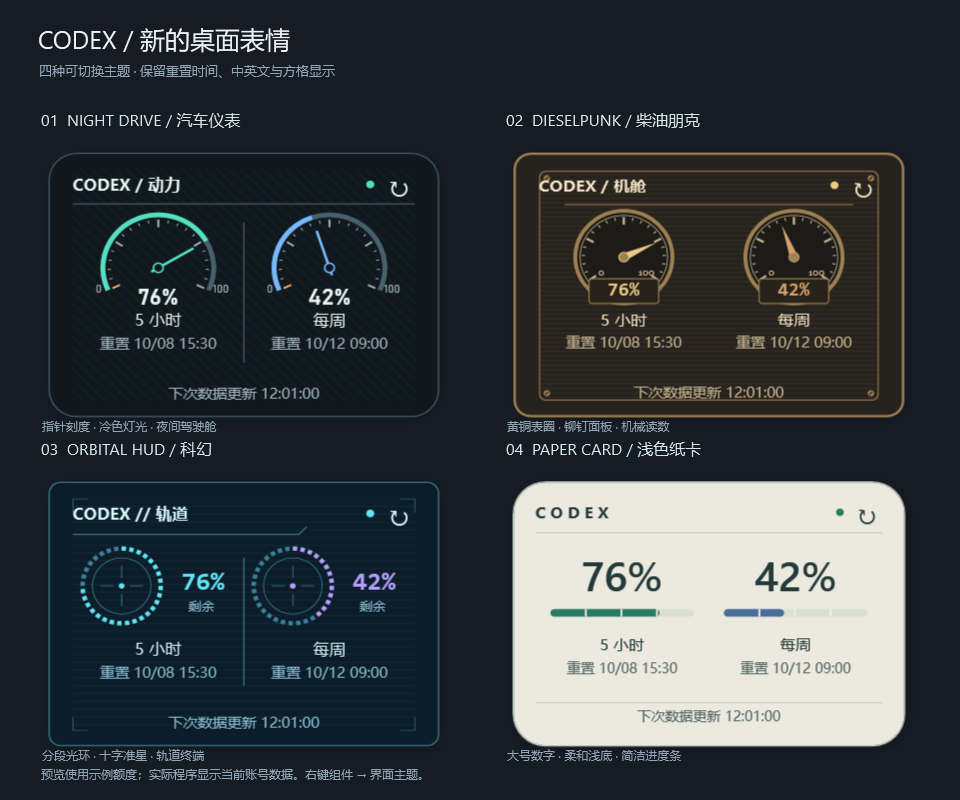
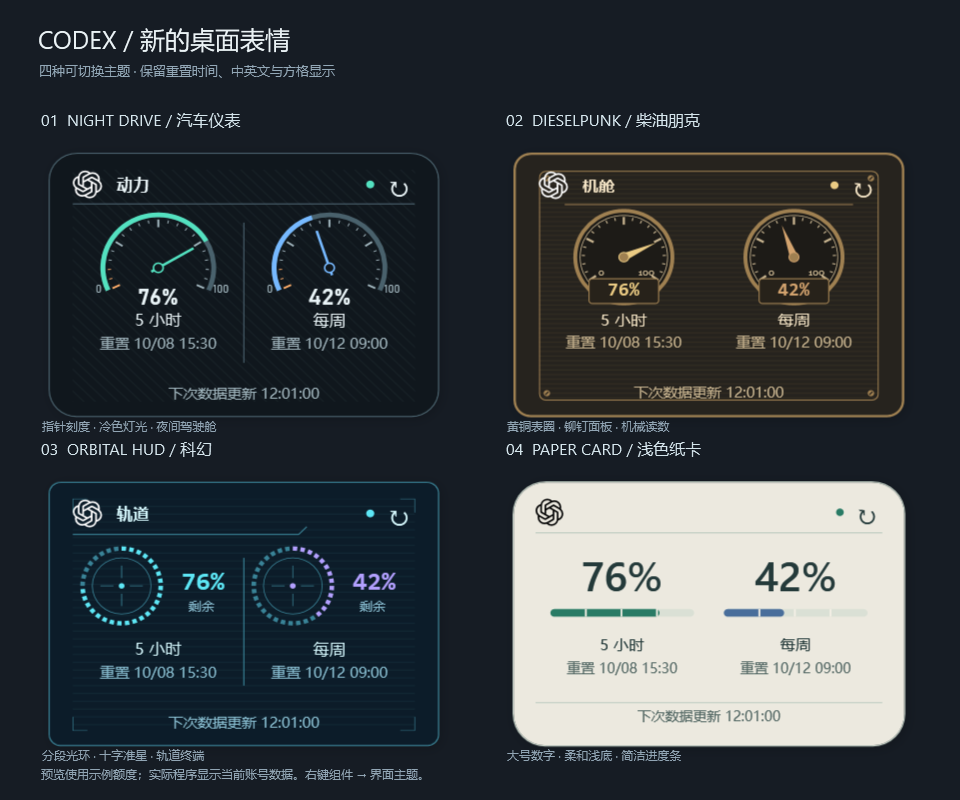
Replace CODEX header text with embedded monochrome ChatGPT mark

diff --git a/QuotaWidget.cs b/QuotaWidget.cs
@@ -164,6 +164,10 @@ sealed class Widget : Window
     readonly Border card = new Border();
     readonly QuotaDecoration decoration = new QuotaDecoration { IsHitTestVisible = false };
     readonly TextBlock title = new TextBlock();
+    readonly System.Windows.Shapes.Path serviceLogo = new System.Windows.Shapes.Path {
+        Data = ChatGptMark.Shape, Width = 18, Height = 18, Stretch = Stretch.Uniform,
+        VerticalAlignment = VerticalAlignment.Center, HorizontalAlignment = HorizontalAlignment.Left
+    };
     readonly Button refresh = new Button();
     readonly DispatcherTimer timer = new DispatcherTimer();
     readonly HardwareSampler hardware = new HardwareSampler();
@@ -210,7 +214,8 @@ sealed class Widget : Window
         body.RowDefinitions.Add(new RowDefinition { Height = new GridLength(17) });
         body.RowDefinitions.Add(performanceRow);
         var header = new Grid(); body.Children.Add(header);
-        title.Text = "C O D E X"; title.FontSize = 10; title.FontWeight = FontWeights.SemiBold; title.VerticalAlignment = VerticalAlignment.Center; header.Children.Add(title);
+        serviceLogo.ToolTip = "ChatGPT"; System.Windows.Automation.AutomationProperties.SetName(serviceLogo, "ChatGPT logo"); header.Children.Add(serviceLogo);
+        title.Margin = new Thickness(27, 0, 0, 0); title.FontSize = 10; title.FontWeight = FontWeights.SemiBold; title.VerticalAlignment = VerticalAlignment.Center; header.Children.Add(title);
         dot.Width = dot.Height = 5; dot.CornerRadius = new CornerRadius(3); dot.HorizontalAlignment = HorizontalAlignment.Right; dot.VerticalAlignment = VerticalAlignment.Center; dot.Margin = new Thickness(0, 0, 25, 0); dot.Background = new SolidColorBrush(amber); header.Children.Add(dot);
         refresh.Content = "↻"; refresh.FontSize = 17; refresh.Width = 20; refresh.Height = 20; refresh.HorizontalAlignment = HorizontalAlignment.Right;
         refresh.Padding = new Thickness(0); refresh.Foreground = Brushes.White; refresh.Background = Brushes.Transparent; refresh.BorderThickness = new Thickness(0); refresh.Cursor = Cursors.Hand;
@@ -367,7 +372,8 @@ sealed class Widget : Window
         card.CornerRadius = new CornerRadius(theme.Radius); card.BorderBrush = theme.Brush(theme.Code == "glass" ? Color.FromArgb(55, 255, 255, 255) : theme.Edge);
         card.BorderThickness = new Thickness(theme.Code == "diesel" ? 1.6 : 0.8);
         decoration.Theme = theme; decoration.InvalidateVisual();
-        title.Text = theme.Code == "drive" ? "CODEX / " + L("动力", "DRIVE") : theme.Code == "diesel" ? "CODEX / " + L("机舱", "ENGINE") : theme.Code == "hud" ? "CODEX // " + L("轨道", "ORBIT") : "C O D E X";
+        title.Text = theme.Code == "drive" ? L("动力", "DRIVE") : theme.Code == "diesel" ? L("机舱", "ENGINE") : theme.Code == "hud" ? L("轨道", "ORBIT") : "";
+        serviceLogo.Fill = theme.Code == "paper" ? Brushes.Black : Brushes.White;
         title.Foreground = theme.Brush(theme.Foreground); refresh.Foreground = theme.Brush(theme.Foreground);
         footer.Foreground = theme.Brush(theme.Secondary);
         performancePanel.BorderBrush = theme.Brush(theme.Edge); performanceTitle.Foreground = performanceNote.Foreground = theme.Brush(theme.Secondary);

diff --git a/QuotaThemes.cs b/QuotaThemes.cs
@@ -4,6 +4,23 @@ using System.Windows;
 using System.Windows.Automation.Peers;
 using System.Windows.Media;
 
+static class ChatGptMark
+{
+    // Unmodified path from OpenAI's official monochrome Blossom SVG. Embedded
+    // once and shared by all windows; no image decoder or network request.
+    public static readonly Geometry Shape = Load();
+    static Geometry Load()
+    {
+        var settings = new System.Xml.XmlReaderSettings { DtdProcessing = System.Xml.DtdProcessing.Prohibit, XmlResolver = null };
+        using (var stream = typeof(ChatGptMark).Assembly.GetManifestResourceStream("OpenAI.Blossom.svg"))
+        using (var reader = System.Xml.XmlReader.Create(stream, settings)) {
+            var document = new System.Xml.XmlDocument { XmlResolver = null }; document.Load(reader);
+            var geometry = Geometry.Parse("F1 " + document.GetElementsByTagName("path")[0].Attributes["d"].Value);
+            geometry.Freeze(); return geometry;
+        }
+    }
+}
+
 // All decoration is vector-drawn; no external images or animation are needed.
 sealed class QuotaTheme
 {

diff --git a/README.md b/README.md
@@ -19,7 +19,7 @@
 
 ## 下载和运行
 
-从本仓库 [Releases](../../releases/latest) 下载 `CodexQuota-v1.3.1-windows.zip`，完整解压到有写入权限的固定目录。
+从本仓库 [Releases](../../releases/latest) 下载 `CodexQuota-v1.3.2-windows.zip`，完整解压到有写入权限的固定目录。
 
 运行环境：Windows 10/11、.NET Framework 4.7.2 或更新版本，以及已安装并使用 ChatGPT 账号登录的 Codex CLI。程序优先查找当前用户 npm 全局安装的 CLI，其次查找 PATH 中的 `codex.exe`。
 
@@ -106,3 +106,5 @@ CPU 温度优先使用联想新版 `LENOVO_OTHER_METHOD.GetFeatureValue` 的“C
 卸载前在右键菜单关闭自启，然后退出程序并删除应用目录与桌面快捷方式。
 
 这是独立桌面工具，与 OpenAI 官方没有隶属关系。
+
+窗口左上角用于标识所显示服务的 Blossom 标志来自 [OpenAI 官方素材](https://openai.com/brand/)，相关商标归 OpenAI 所有。原始 SVG 位于 `assets/OpenAI-Blossom.svg`，以矢量方式嵌入程序，深色主题显示白色、浅色主题显示黑色，不在运行时联网加载。

diff --git a/CHANGELOG.md b/CHANGELOG.md
@@ -1,5 +1,11 @@
 # Changelog
 
+## v1.3.2
+
+- 将左上角 CODEX 文字替换为官方提供的 ChatGPT / OpenAI Blossom 矢量标志。
+- 标志随深浅主题切换白色或黑色，保留主题名称与右侧状态和刷新按钮。
+- 素材嵌入程序，运行时不需要额外图片文件或网络请求。
+
 ## v1.3.1
 
 - 优先使用联想新版“CPU 当前温度”只读接口，兼容旧接口返回空值的机型。
